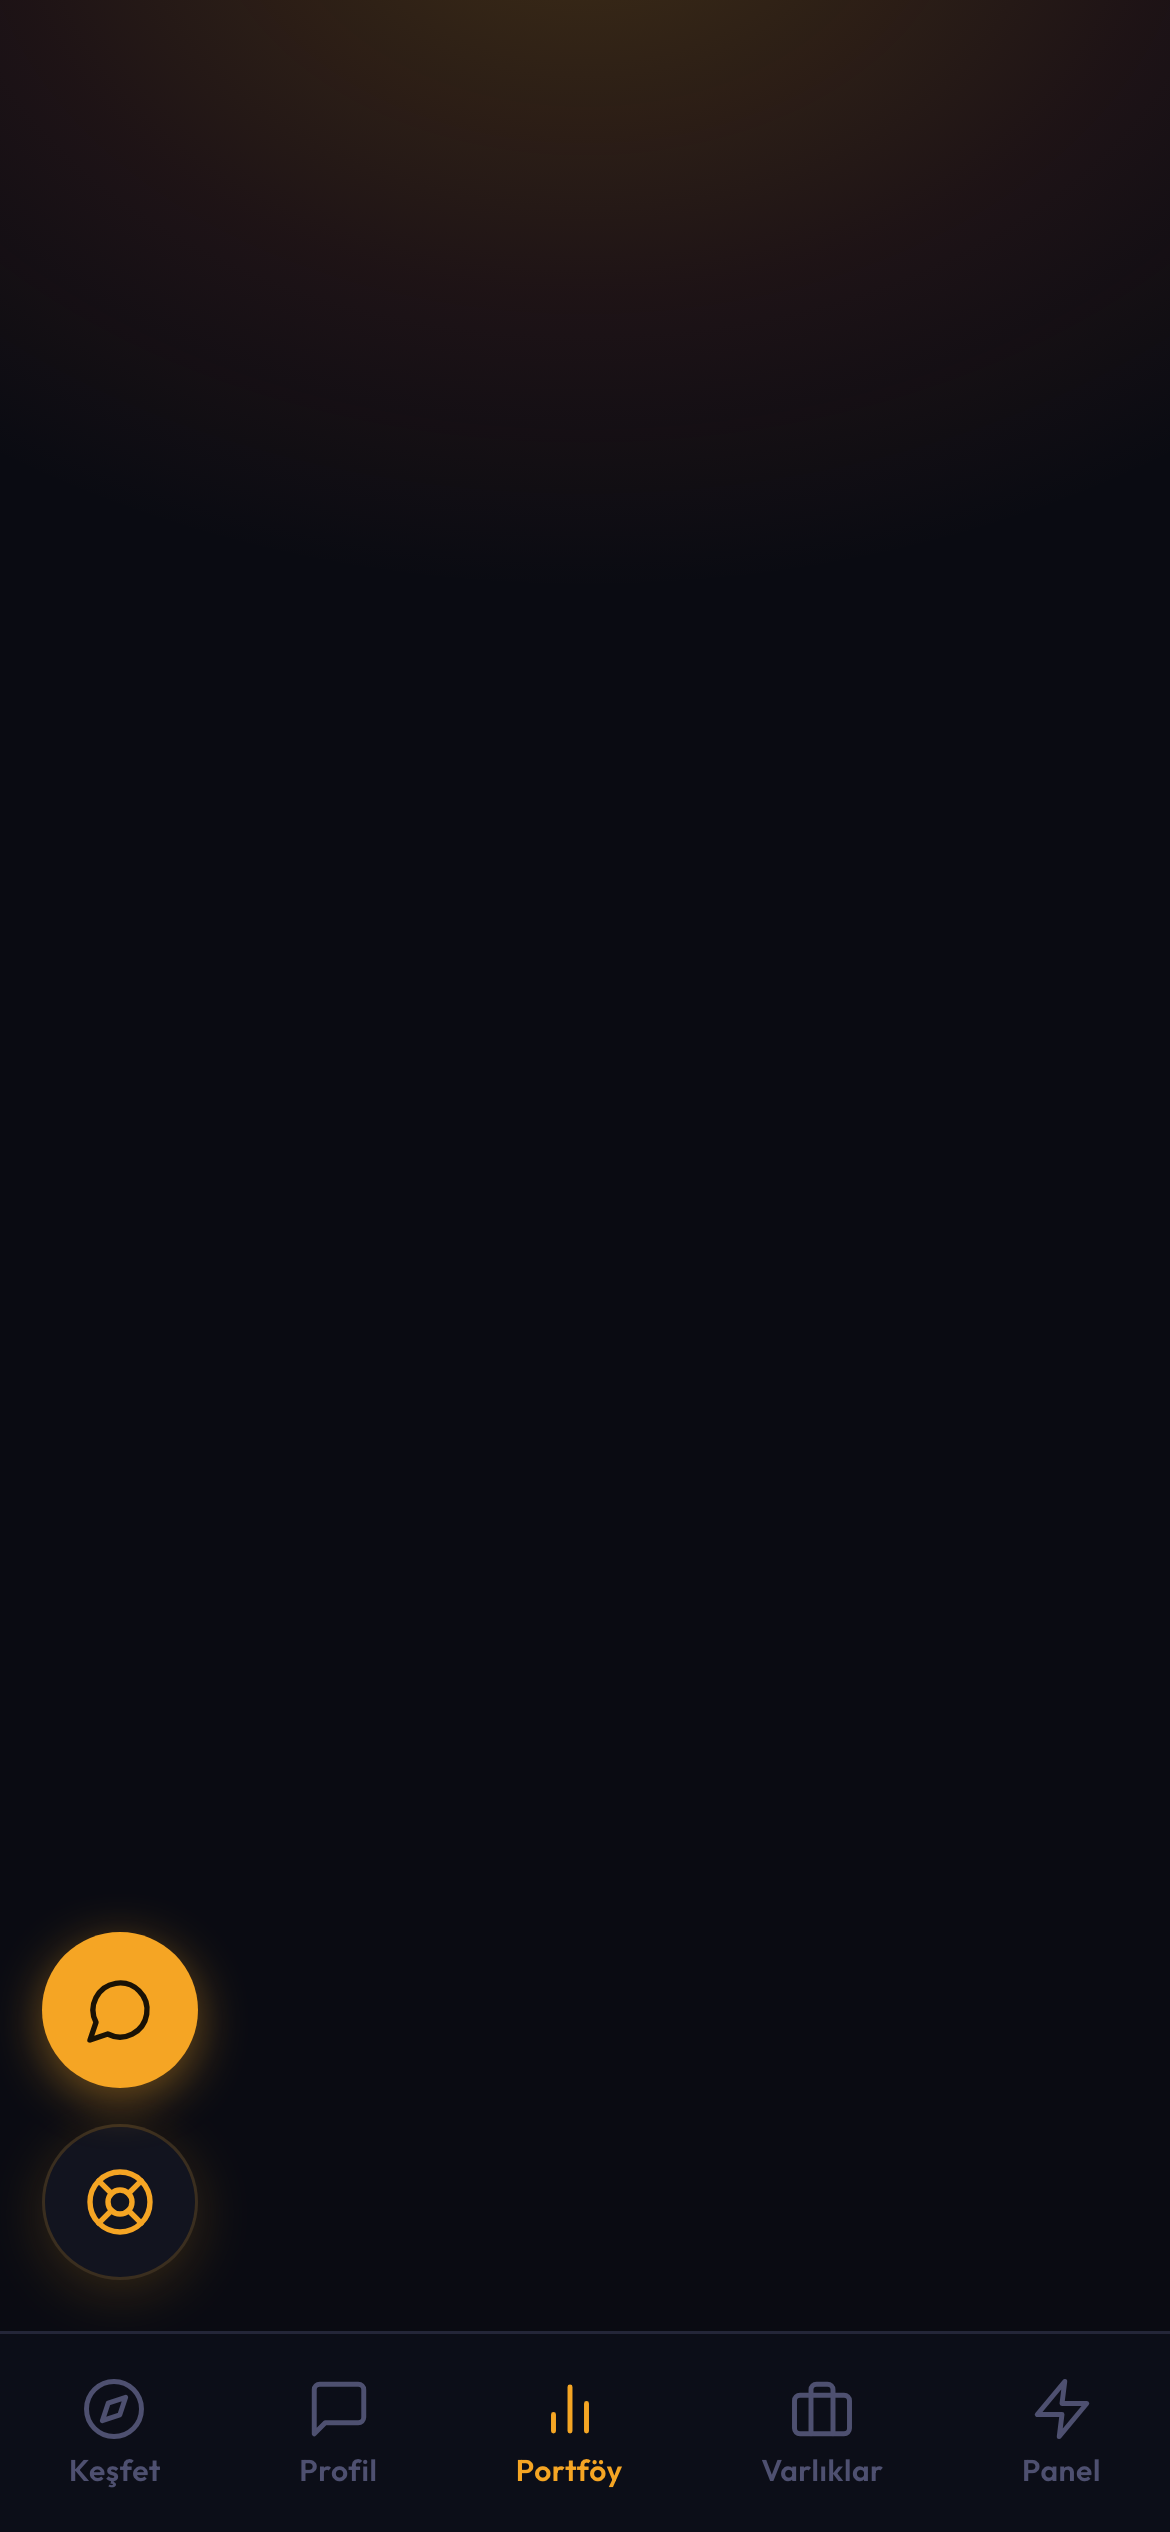
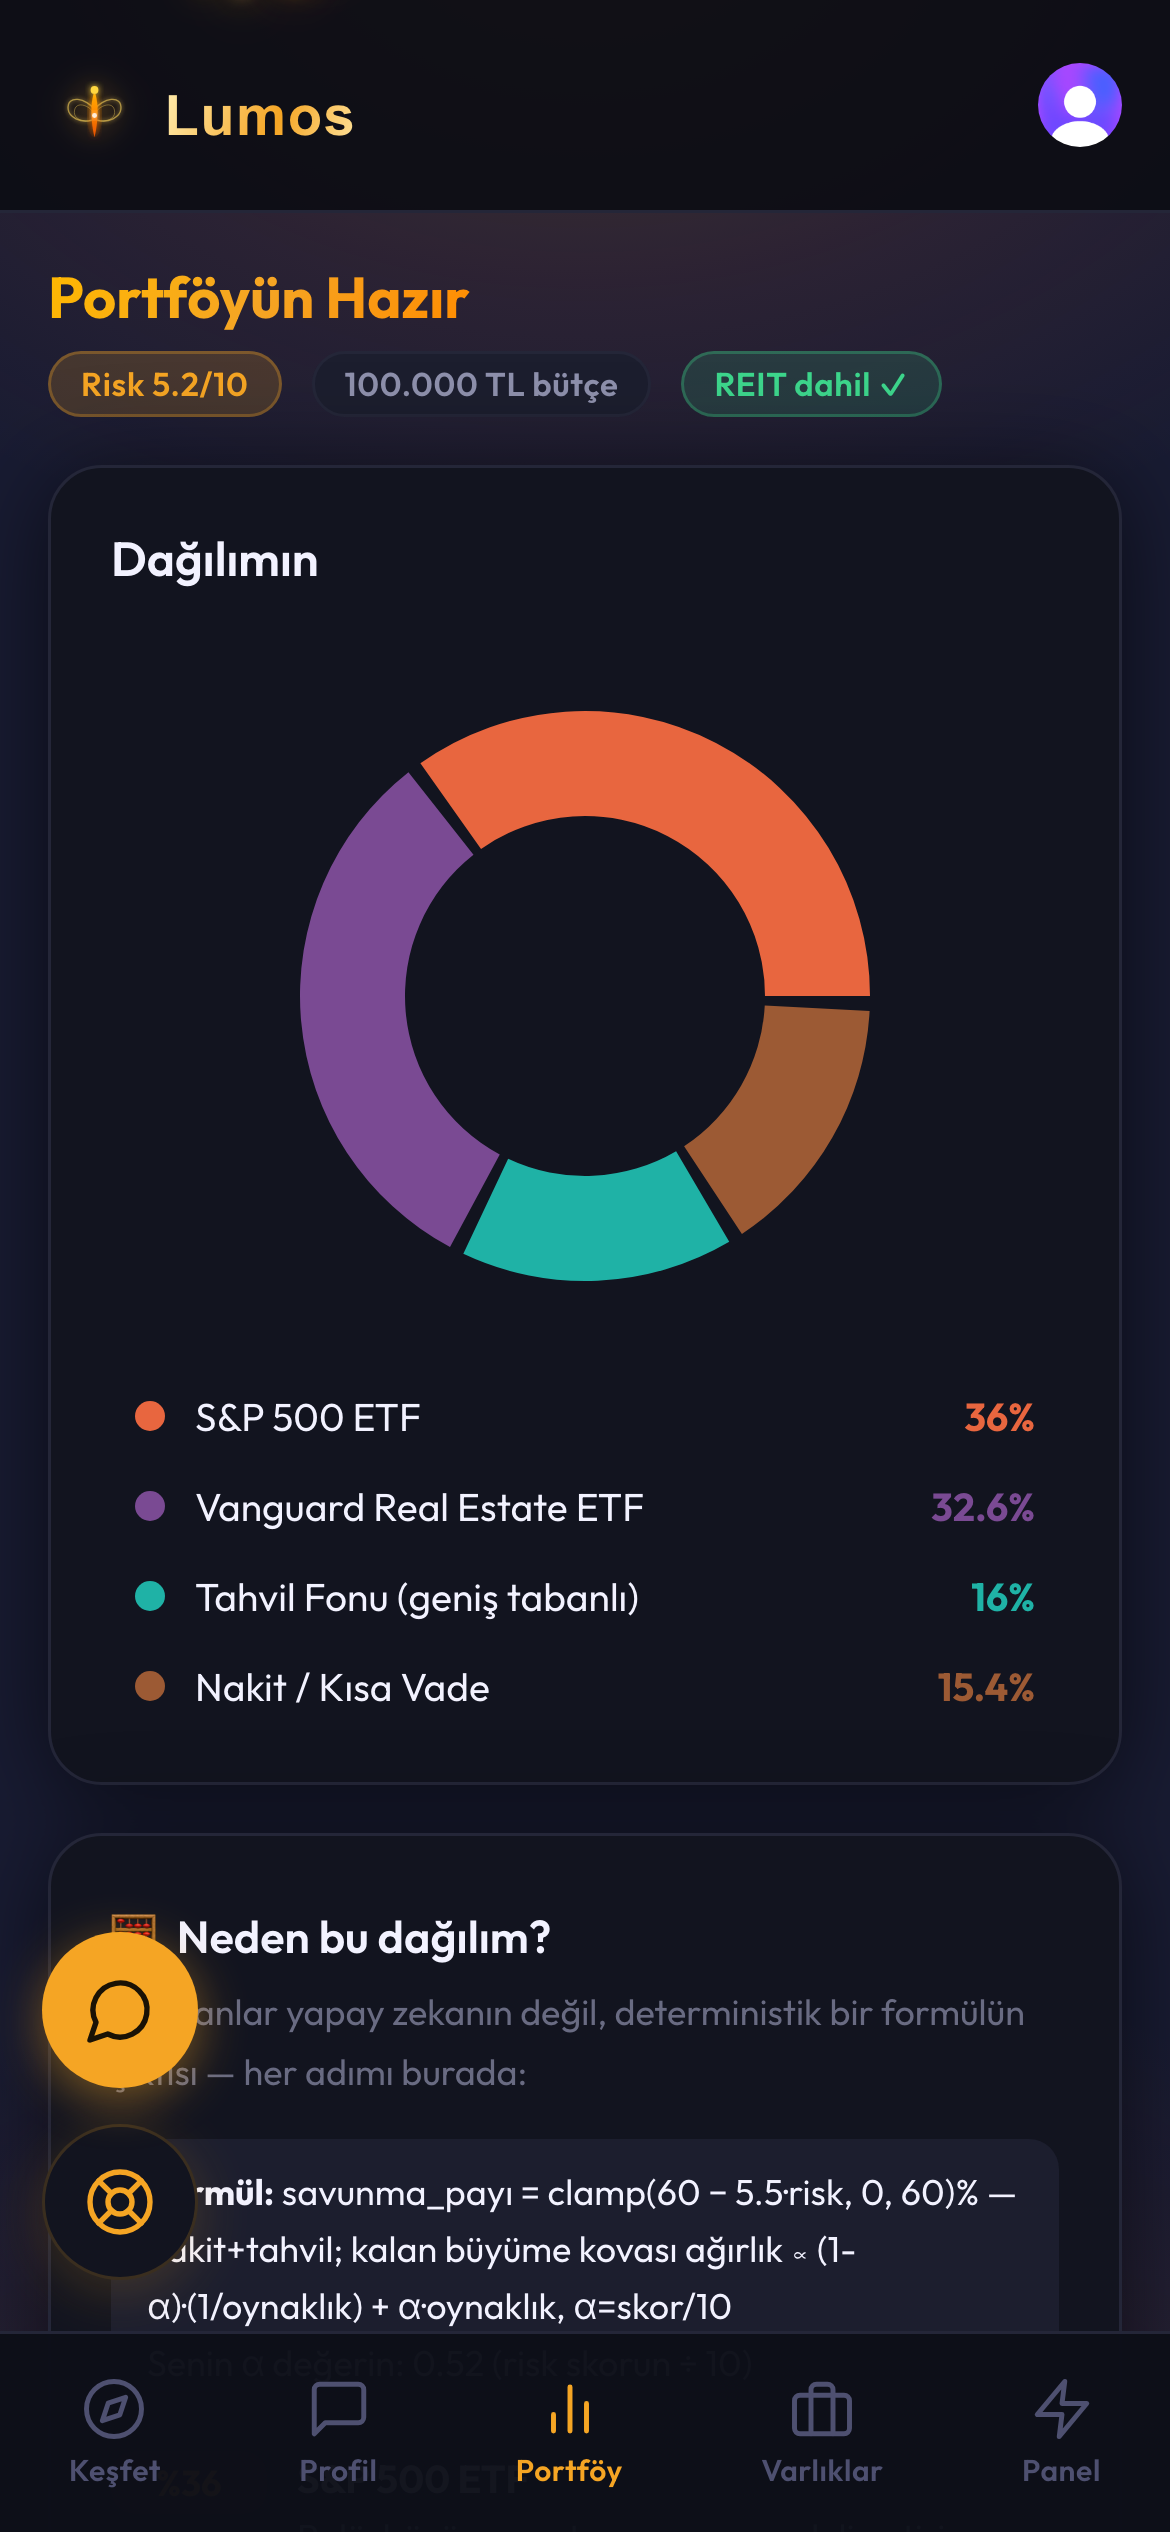
docs: fix the blank portfolio still, promote real-estate screens to the gallery
- 03-portfoy (and its desktop twin) were captured before the page had
  rendered — RecommendPage returns null until the recommendation and
  its AI explanation arrive, so both stills were empty. The capture now
  polls for real content before shooting
- Real-estate screens (rent-vs-buy scenario + province price explorer)
  move out of the collapsed section into the main README gallery; only
  the desktop portfolio view stays behind the fold

diff --git a/README.md b/README.md
@@ -37,12 +37,14 @@ shows you the honest downside before the upside, and treats your fear as **data 
 |---|---|---|
 | ![Varlıklarım](demo/screens/05-varliklarim.png) | ![Panel](demo/screens/06-panel.png) | ![Danışman](demo/screens/08-danisman.png) |
 
-<details>
-<summary>More: rent-vs-buy, real-estate explorer, desktop layout</summary>
-
-| Rent vs. buy | Real-estate explorer | Desktop |
+| Rent vs. buy | Province price explorer | Desktop layout |
 |---|---|---|
 | ![Kirada mı otur, ev mi al](demo/screens/04-kira-vs-ev.png) | ![Emlak Keşfet](demo/screens/07-emlak-kesfet.png) | ![Desktop](demo/screens/09-desktop-panel.png) |
+
+<details>
+<summary>More: desktop portfolio view</summary>
+
+![Desktop portföy](demo/screens/10-desktop-portfoy.png)
 
 </details>
 